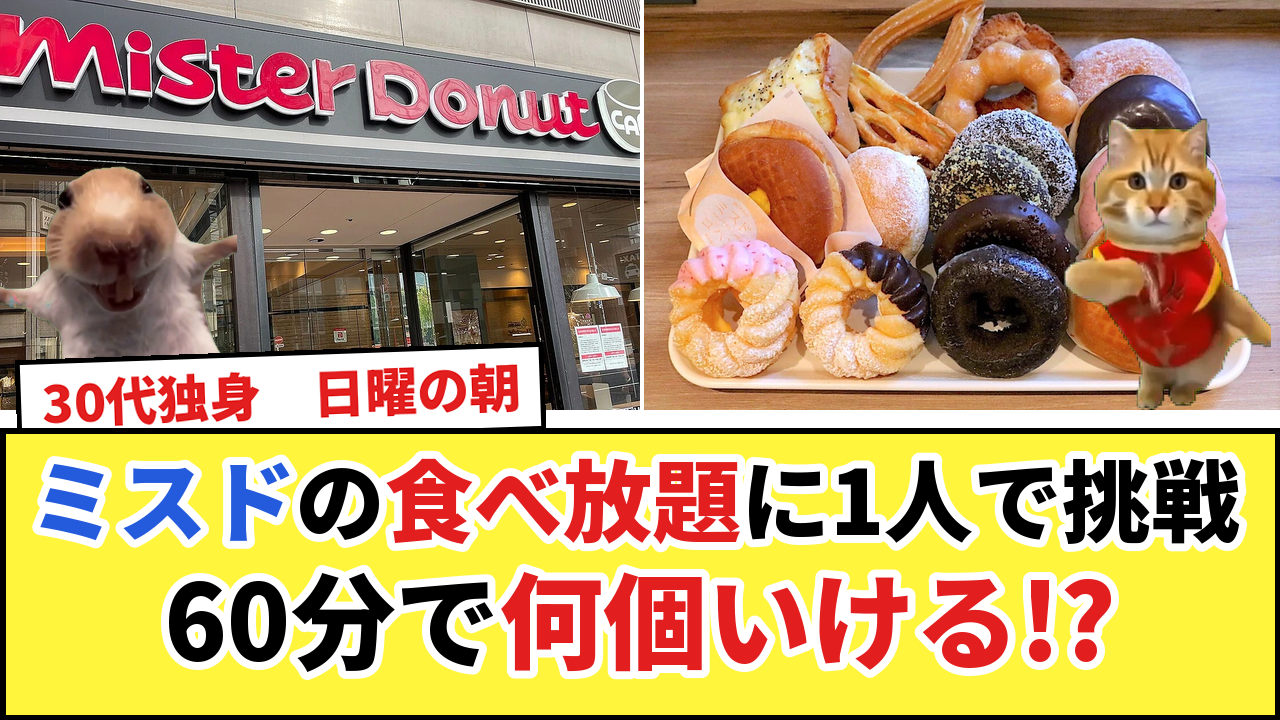
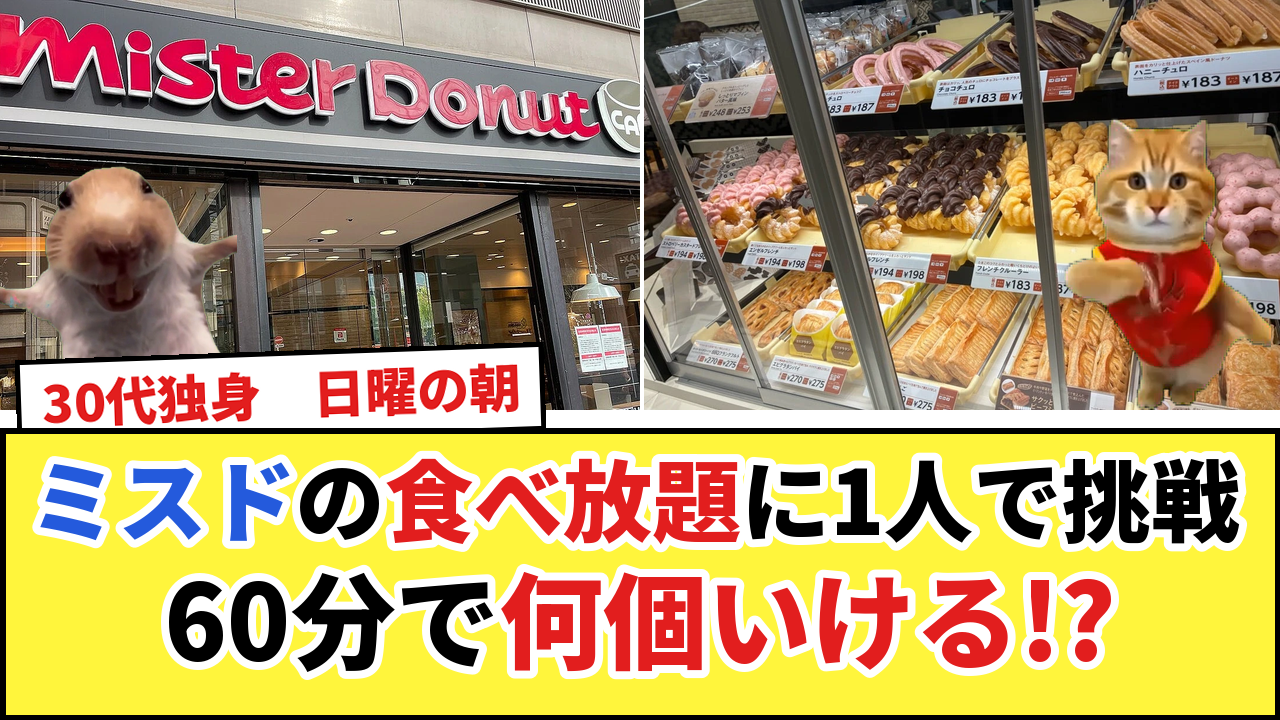
ミスド：サムネの右をショーケースの棚に（a1 採用）
Claude-Session: https://claude.ai/code/session_011g9CsrfFD5YswfNSvNDW39

Changed region(s): [[0.5, 0.0, 1.0, 0.5806]]

diff --git a/catmeme/make_thumb_misdo.py b/catmeme/make_thumb_misdo.py
@@ -1,7 +1,7 @@
 """自堕落シリーズ #12 ミスド（ドーナツビュッフェ）のサムネ（11/7）。いつものAパターンで文言3案。
 
 python3 catmeme/make_thumb_misdo.py → thumbs/jidaraku_12_misdo_thumb_a1/a2/a3.png
-左：外観・右：トレーに山盛りのドーナツ
+左：外観・右：ショーケースの棚（11/7 ユーザー指定・a1 を採用）
 """
 import os
 
@@ -21,7 +21,7 @@ def main():
         ("a2", "30代独身　日曜の朝", [("1個まで", R), ("だった俺が", BK)], [("ミスド", T.BLUE), ("60分", R), ("食べ放題!?", BK)]),
         ("a3", "30代独身　ひとりミスド", [("ドーナツ", BK), ("ビュッフェ60分", R)], [("10個とった", R), ("結果…", BK)]),
     ]:
-        T.type_a("jidaraku_12_misdo_thumb_%s.png" % name, "m01_front", "f_tray", L, RC, tag, l1, l2, split=640, size=104)
+        T.type_a("jidaraku_12_misdo_thumb_%s.png" % name, "m01_front", "m02_showcase", L, RC, tag, l1, l2, split=640, size=104)
 
 
 if __name__ == "__main__":
